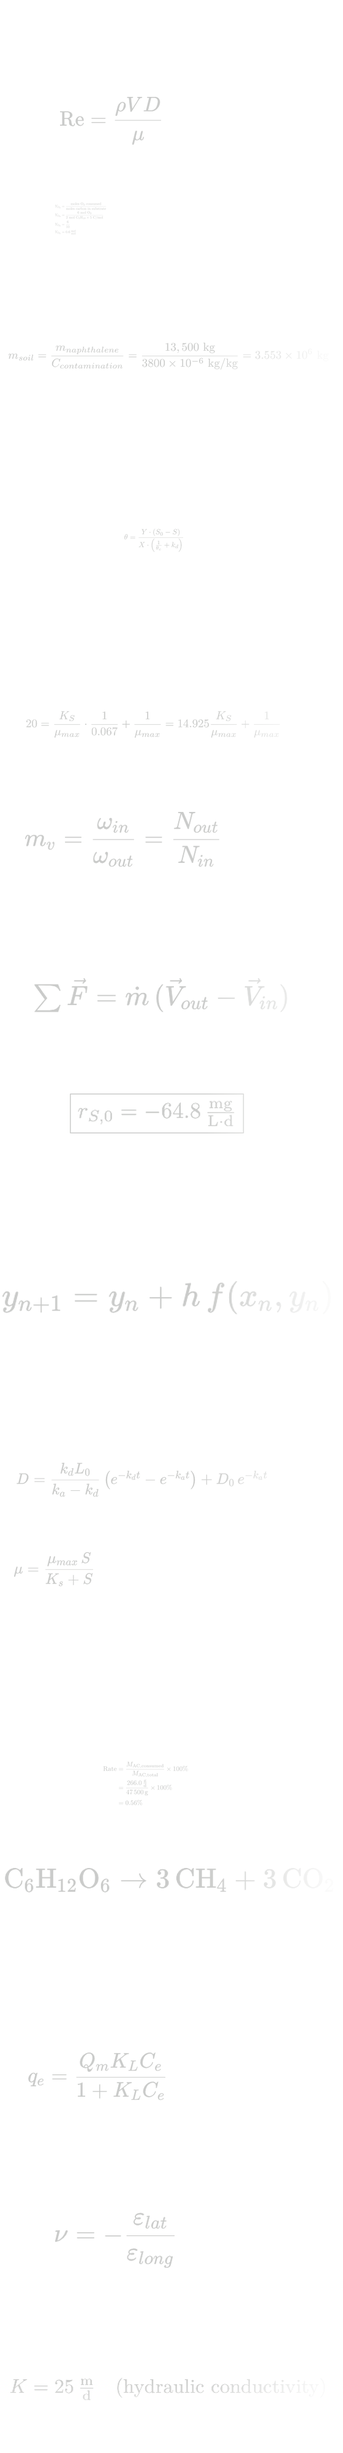
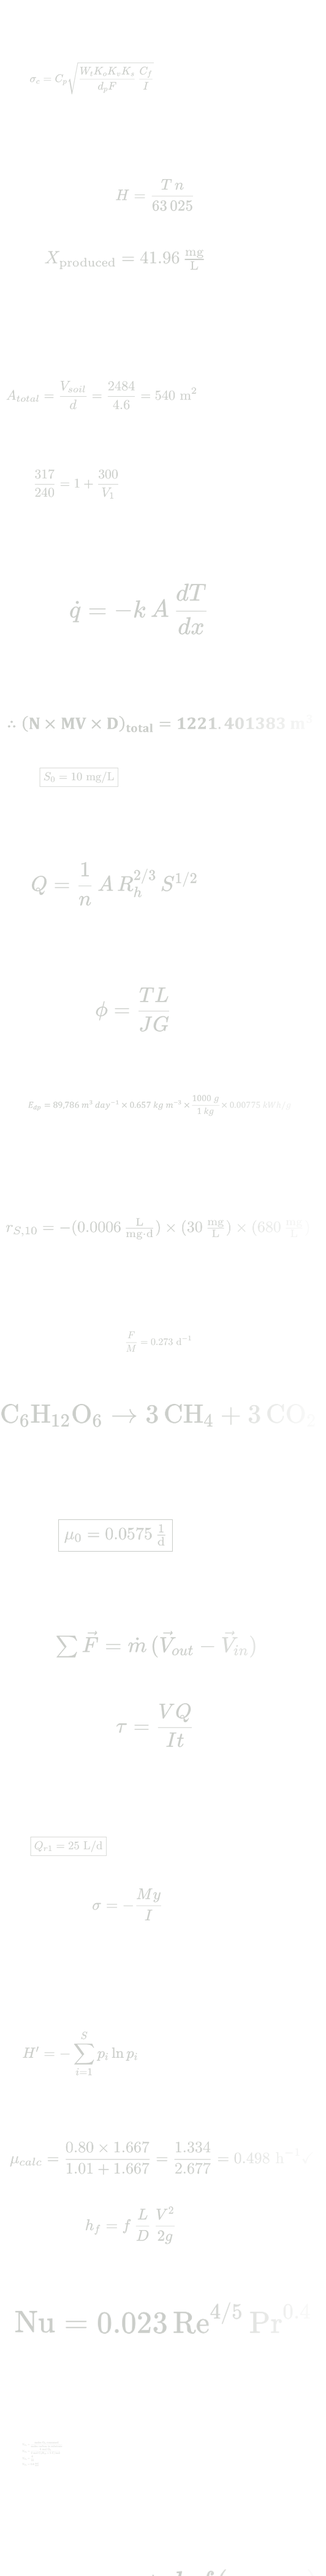
Continuous grey equation columns down both page margins

diff --git a/style.css b/style.css
@@ -1074,23 +1074,17 @@ main > section.section:nth-of-type(odd) .split-head .sc { color: var(--slate); }
 /* one grid per section: dark sections paint their own ground so the body grid no longer shows through offset */
 main > section.section:nth-of-type(even) { background-color: var(--field); }
 
-main > section.section { background-repeat: no-repeat, no-repeat, repeat, repeat; background-size: 380px auto, 380px auto, 22px 22px, 22px 22px;
-  background-position: left var(--eq-x) top 150px, right var(--eq-xr) top 260px, 0 0, 0 0; }
-main > section.section:has(.side-img) { background-position: left var(--eq-x) top 600px, right var(--eq-xr) top 260px, 0 0, 0 0; }
-main > section.section:nth-of-type(1) { background-image: url("images/eq/L1.png"), url("images/eq/R1.png"), var(--gridD); }
-main > section.section:nth-of-type(2) { background-image: url("images/eq/L2.png"), url("images/eq/R2.png"), var(--gridL); }
-main > section.section:nth-of-type(3) { background-image: url("images/eq/L3.png"), url("images/eq/R3.png"), var(--gridD); }
-main > section.section:nth-of-type(4) { background-image: url("images/eq/L4.png"), url("images/eq/R4.png"), var(--gridL); }
-main > section.section:nth-of-type(5) { background-image: url("images/eq/L5.png"), url("images/eq/R5.png"), var(--gridD); }
-main > section.section:nth-of-type(6) { background-image: url("images/eq/L6.png"), url("images/eq/R6.png"), var(--gridL); }
-main > section.section:nth-of-type(7) { background-image: url("images/eq/L7.png"), url("images/eq/R7.png"), var(--gridD); }
-main > section.section:nth-of-type(8) { background-image: url("images/eq/L8.png"), url("images/eq/R8.png"), var(--gridL); }
-main > section.section:nth-of-type(odd) { background-size: 380px auto, 380px auto, 22px 22px, 22px 22px; background-repeat: no-repeat, no-repeat, repeat, repeat; }
-@media (max-width: 1100px) {
-  main > section.section { background-image: var(--gridL) !important; background-size: 22px 22px !important; background-position: 0 0 !important; background-repeat: repeat !important; }
-  main > section.section:nth-of-type(odd) { background-image: var(--gridD) !important; }
-}
-
+/* v13: one continuous column of equations down each side of the page, in a neutral grey
+   that reads on both the light and dark sections; content sits above it */
+main > section.section { background-image: var(--gridL); background-size: 22px 22px; background-repeat: repeat; background-position: 0 0; }
+main > section.section:nth-of-type(odd) { background-image: var(--gridD); background-size: 22px 22px; background-repeat: repeat; background-position: 0 0; }
+main { position: relative; }
+main::before { content: ""; position: absolute; inset: 0; z-index: 1; pointer-events: none;
+  background-image: url("images/eq/L1.png"), url("images/eq/L2.png"), url("images/eq/L3.png"), url("images/eq/L4.png"), url("images/eq/L5.png"), url("images/eq/R1.png"), url("images/eq/R2.png"), url("images/eq/R3.png"), url("images/eq/R4.png"), url("images/eq/R5.png");
+  background-size: 380px 3000px; background-repeat: no-repeat;
+  background-position: left var(--eq-x) top 60px, left var(--eq-x) top 3060px, left var(--eq-x) top 6060px, left var(--eq-x) top 9060px, left var(--eq-x) top 12060px, right var(--eq-xr) top 180px, right var(--eq-xr) top 3180px, right var(--eq-xr) top 6180px, right var(--eq-xr) top 9180px, right var(--eq-xr) top 12180px; }
+main > section.section > .page { position: relative; z-index: 2; }
+@media (max-width: 1100px) { main::before { display: none; } }
 .slide img { object-position: 50% 10%; }
 
 /* video slides */
